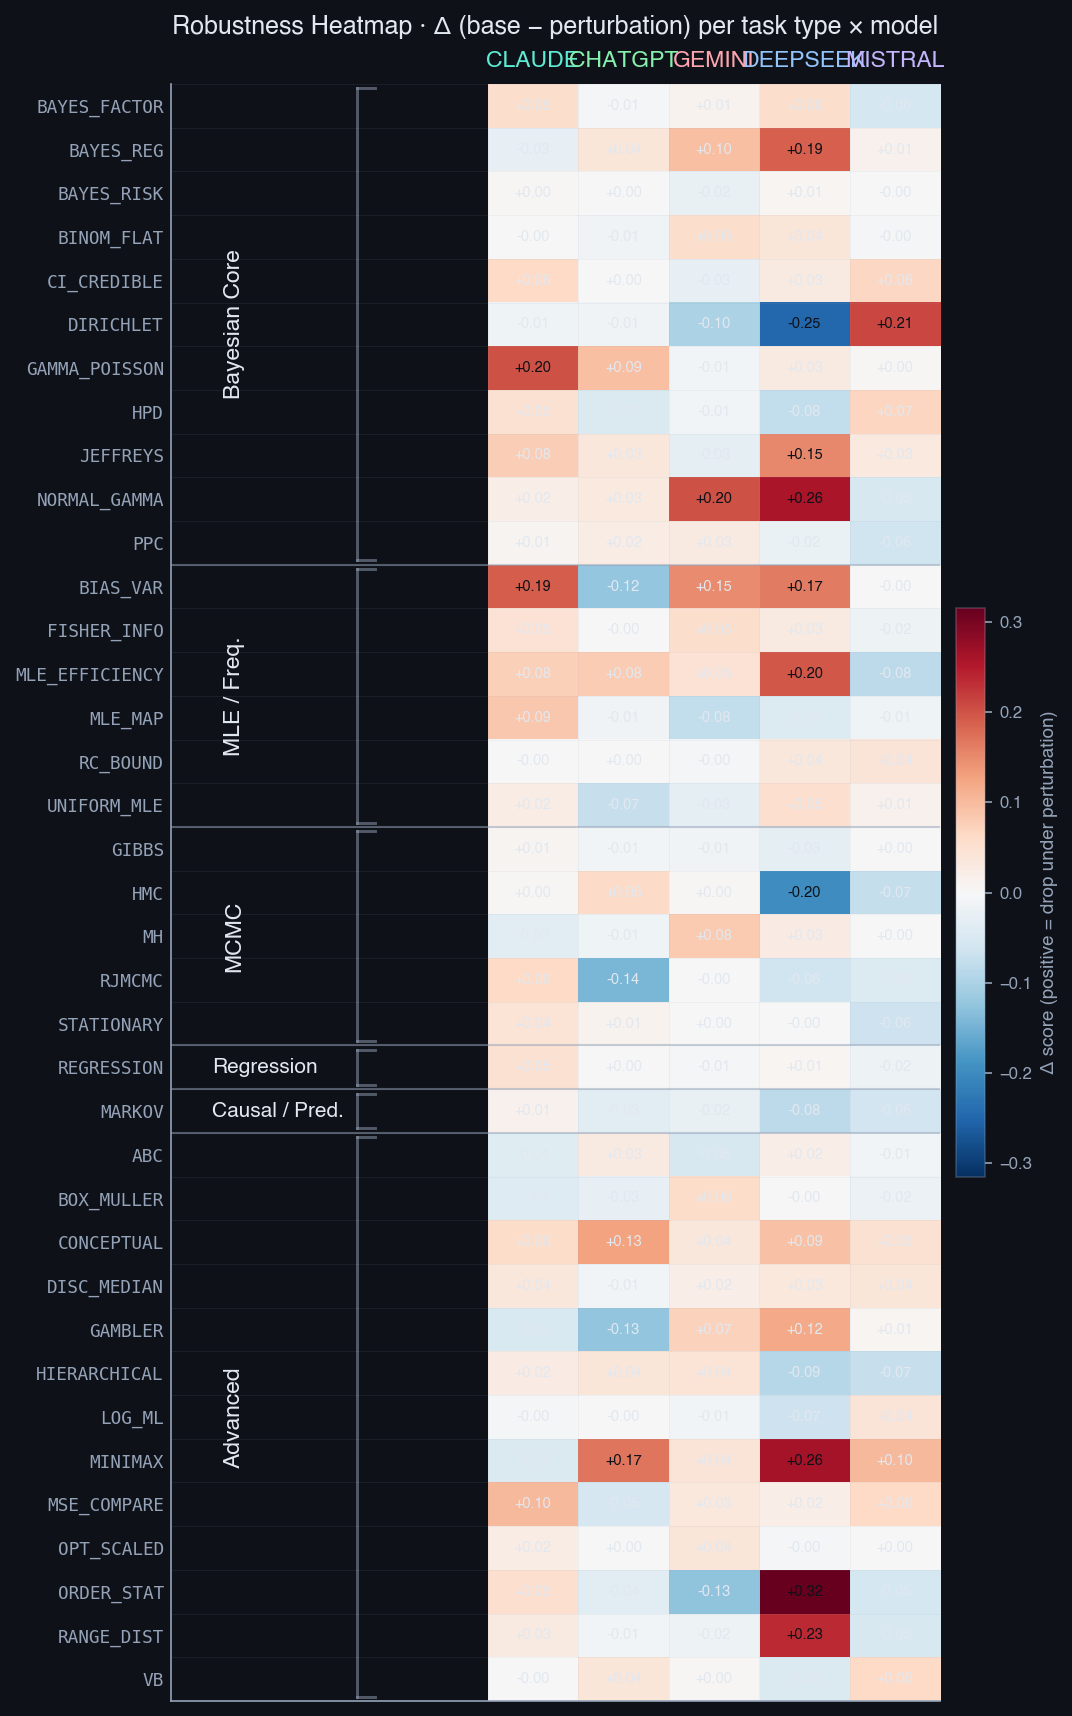
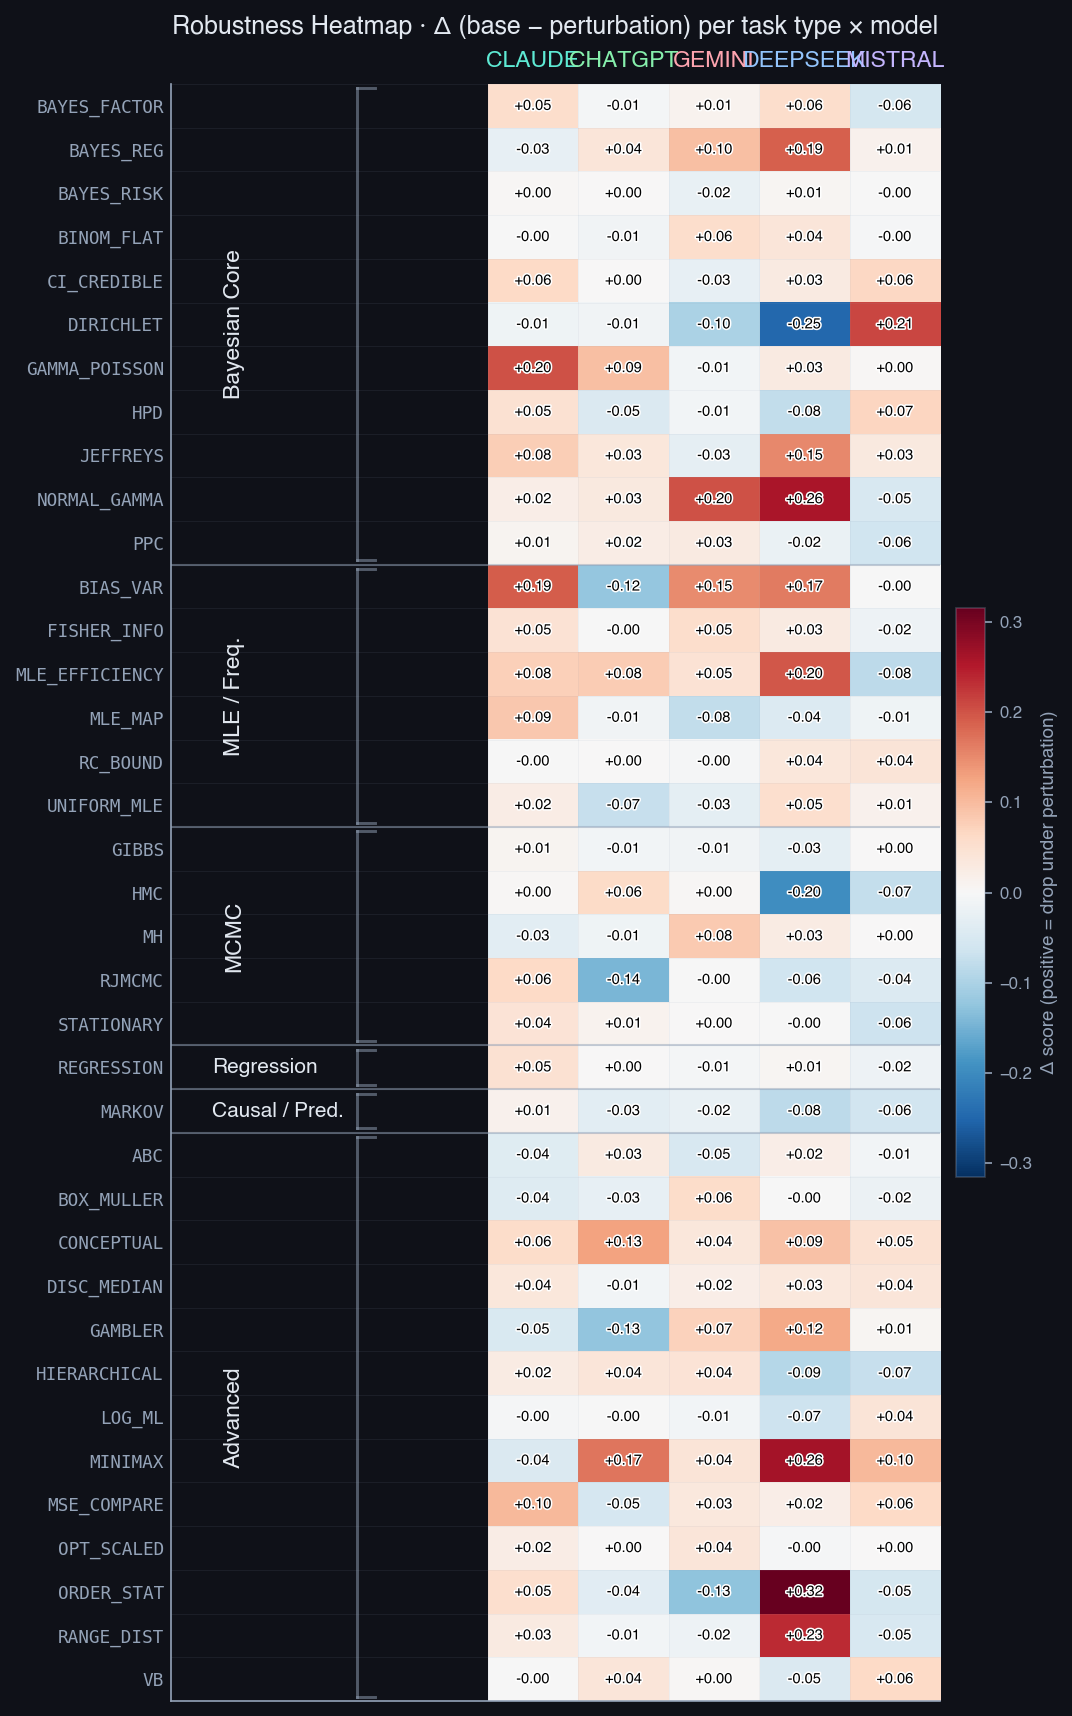
4 chart polish: disagreement spacing, a6 rank→value, robustness black labels, judge scatter→heatmap

diff --git a/scripts/keyword_vs_judge_agreement.py b/scripts/keyword_vs_judge_agreement.py
@@ -15,6 +15,8 @@ from pathlib import Path
 
 import matplotlib
 matplotlib.use("Agg")
+import matplotlib.colors as mcolors
+import matplotlib.patheffects as pe
 import matplotlib.pyplot as plt
 import numpy as np
 from scipy import stats
@@ -42,6 +44,8 @@ OUT_JSON = Path("experiments/results_v2/keyword_vs_judge_agreement.json")
 TOP_JSON = Path("experiments/results_v2/top_disagreements_assumption.json")
 FIG_SCATTER = Path("report_materials/figures/judge_validation_scatter.png")
 FIG_BARS = Path("report_materials/figures/judge_validation_by_model.png")
+WEB_SCATTER = Path("capstone-website/frontend/public/visualizations/png/v2/judge_validation_scatter.png")
+WEB_BARS = Path("capstone-website/frontend/public/visualizations/png/v2/judge_validation_by_model.png")
 
 # (label, keyword field, judge dimension key)
 DIMS = [
@@ -183,47 +187,86 @@ def top_disagreements(joined: list[dict], n: int = 30) -> list[dict]:
 
 
 def make_scatter_figure(joined: list[dict], path: Path) -> None:
+    """4-panel 2D bin heatmap of keyword rubric vs external judge scores.
+
+    5×5 count grid per panel (bins centered at 0, 0.25, 0.5, 0.75, 1.0).
+    Cell color encodes log(count+1) on viridis. Cells annotated with integer
+    counts (white text + black stroke). Diagonal = perfect agreement.
+    """
     path.parent.mkdir(parents=True, exist_ok=True)
-    fig, axes = plt.subplots(1, 4, figsize=(22, 6), facecolor=SITE_BG)
     panels = [
         ("Method / Structure",      "kw_structure",  "judge_method"),
         ("Assumption Compliance",   "kw_assumption", "judge_assumption"),
         ("Reasoning Quality",       "kw_reasoning",  "judge_reasoning"),
-        ("Reasoning Completeness",  None,            "judge_completeness"),
+        ("Reasoning Completeness",  "kw_reasoning",  "judge_completeness"),
     ]
+    bin_centers = np.array([0.0, 0.25, 0.5, 0.75, 1.0])
+    bin_edges = np.array([-0.125, 0.125, 0.375, 0.625, 0.875, 1.125])
+
+    fig, axes = plt.subplots(1, 4, figsize=(15, 4), dpi=150, facecolor=SITE_BG)
+    cmap = plt.get_cmap("viridis")
+    label_stroke = [pe.withStroke(linewidth=1.4, foreground="black")]
+
     for ax, (title, kw_field, jd_field) in zip(axes, panels):
         ax.set_facecolor(SITE_BG)
-        for m, color in MODEL_COLORS.items():
-            xs, ys = [], []
-            for r in joined:
-                jd = r.get(jd_field)
-                if jd is None or r["model_family"] != m:
+        xs, ys = [], []
+        for r in joined:
+            kw = r.get(kw_field)
+            jd = r.get(jd_field)
+            if kw is None or jd is None:
+                continue
+            xs.append(kw)
+            ys.append(jd)
+        xs = np.array(xs)
+        ys = np.array(ys)
+
+        H, _, _ = np.histogram2d(ys, xs, bins=[bin_edges, bin_edges])
+        total = H.sum()
+        diag = np.trace(H) if H.shape[0] == H.shape[1] else 0.0
+        off_pct = (1.0 - diag / total) * 100.0 if total > 0 else 0.0
+
+        log_H = np.log1p(H)
+        norm = mcolors.Normalize(vmin=0.0, vmax=max(log_H.max(), 1e-6))
+        ax.imshow(log_H, cmap=cmap, norm=norm, origin="lower",
+                  aspect="auto",
+                  extent=(-0.5, len(bin_centers) - 0.5,
+                          -0.5, len(bin_centers) - 0.5))
+
+        for i in range(H.shape[0]):
+            for j in range(H.shape[1]):
+                count = int(H[i, j])
+                if count == 0:
                     continue
-                if kw_field is None:
-                    # Distribution-only panel: x = task index, y = judge score
-                    xs.append(np.random.uniform(0, 1))
-                    ys.append(jd)
-                else:
-                    kw = r.get(kw_field)
-                    if kw is None:
-                        continue
-                    xs.append(kw + np.random.uniform(-0.02, 0.02))
-                    ys.append(jd + np.random.uniform(-0.02, 0.02))
-            ax.scatter(xs, ys, s=20, alpha=0.55, c=color, label=m, edgecolors="none")
-        ax.plot([0, 1], [0, 1], color=SITE_FG_MUTED, lw=1.2, ls="--", alpha=0.5)
-        ax.set_xlim(-0.05, 1.05); ax.set_ylim(-0.05, 1.05)
-        ax.set_title(title, fontsize=18, color=SITE_FG, pad=10)
-        ax.set_xlabel("Keyword rubric" if kw_field else "(no keyword equivalent)",
-                      fontsize=14, color=SITE_FG_MUTED)
-        ax.set_ylabel("LLM judge", fontsize=14, color=SITE_FG_MUTED)
-        ax.tick_params(colors=SITE_FG_MUTED, labelsize=11)
+                ax.text(j, i, str(count), ha="center", va="center",
+                        fontsize=9, color="white", fontweight="700",
+                        path_effects=label_stroke)
+
+        ax.plot([-0.5, len(bin_centers) - 0.5],
+                [-0.5, len(bin_centers) - 0.5],
+                color="white", lw=1.0, ls="--", alpha=0.5)
+
+        ax.text(0.03, 0.97,
+                f"off-diagonal: {off_pct:.1f}%",
+                transform=ax.transAxes, ha="left", va="top",
+                fontsize=9, fontweight="700",
+                color="white", path_effects=label_stroke)
+
+        ax.set_xticks(range(len(bin_centers)))
+        ax.set_yticks(range(len(bin_centers)))
+        ax.set_xticklabels([f"{c:.2f}" for c in bin_centers], fontsize=8)
+        ax.set_yticklabels([f"{c:.2f}" for c in bin_centers], fontsize=8)
+        ax.set_title(title, fontsize=12, color=SITE_FG, pad=8, fontweight="700")
+        ax.set_xlabel("Keyword rubric", fontsize=9, color=SITE_FG_MUTED)
+        ax.set_ylabel("LLM judge", fontsize=9, color=SITE_FG_MUTED)
+        ax.tick_params(colors=SITE_FG_MUTED, labelsize=8)
         dim_remaining_spines(ax)
-        ax.grid(True, alpha=0.06, color="#ffffff")
-    axes[0].legend(loc="upper left", fontsize=11, frameon=False, labelcolor=SITE_FG_MUTED)
-    fig.suptitle("Keyword rubric vs external LLM judge — per-dimension scatter",
-                 fontsize=20, color=SITE_FG, y=1.02)
+
+    fig.suptitle("Keyword rubric vs external LLM judge — agreement heatmaps",
+                 fontsize=14, color=SITE_FG, y=1.02, fontweight="700")
     plt.tight_layout()
-    fig.savefig(path, dpi=300, bbox_inches="tight", facecolor=SITE_BG)
+    fig.savefig(path, dpi=150, bbox_inches="tight", facecolor=SITE_BG)
+    WEB_SCATTER.parent.mkdir(parents=True, exist_ok=True)
+    fig.savefig(WEB_SCATTER, dpi=150, bbox_inches="tight", facecolor=SITE_BG)
     plt.close(fig)
 
 

diff --git a/scripts/generate_group_a_figures.py b/scripts/generate_group_a_figures.py
@@ -342,17 +342,13 @@ def figure_a2():
                  fontsize=13, fontweight="700", color=SITE_FG, pad=22, loc="left")
 
     cbar = fig.colorbar(im, ax=ax, fraction=0.025, pad=0.012)
-    cbar.set_label("Mean final_score", fontsize=9, color=SITE_FG_MUTED,
+    cbar.set_label("Accuracy", fontsize=9, color=SITE_FG_MUTED,
                    rotation=270, labelpad=18)
+    cbar.set_ticks([0.2, 0.4, 0.6, 0.8])
     cbar.ax.tick_params(labelsize=8, colors=SITE_FG_MUTED)
     if cbar.outline is not None:
         cbar.outline.set_edgecolor(SITE_FG_MUTED)
         cbar.outline.set_alpha(0.3)
-    # Cohort-mean tick marker on the colorbar.
-    cbar.ax.axhline(overall_mean, color=SITE_FG, lw=1.2, alpha=0.85)
-    cbar.ax.text(1.6, overall_mean, f"  cohort mean · {overall_mean:.3f}",
-                 transform=cbar.ax.get_yaxis_transform(),
-                 va="center", ha="left", fontsize=8, color=SITE_FG_MUTED)
 
     fig.text(0.5, 0.01,
              f"Color centered on cohort mean ({overall_mean:.3f}). "
@@ -816,13 +812,9 @@ def figure_a6():
             elinewidth=2.0, capsize=5, capthick=1.6,
             markersize=12, markeredgecolor=SITE_BG, markeredgewidth=1.0,
         )
-        ax.text(upper[i] + 0.005, y_pos[i], f"{means[i]:.3f}",
-                va="center", ha="left",
+        ax.text(means[i], y_pos[i] - 0.35, f"{means[i]:.3f}",
+                va="bottom", ha="center",
                 color=SITE_FG, fontsize=10, fontweight="700")
-        ax.text(means[i], y_pos[i] - 0.32, f"#{i+1}",
-                va="top", ha="center",
-                color=SITE_FG_MUTED, fontsize=9, fontweight="700",
-                alpha=0.85)
 
     ax.set_yticks(y_pos)
     ax.set_yticklabels([MODEL_LABEL[m] for m in rank_order],

diff --git a/scripts/robustness_analysis.py b/scripts/robustness_analysis.py
@@ -21,6 +21,7 @@ from collections import defaultdict
 from pathlib import Path
 
 import matplotlib.colors as mcolors
+import matplotlib.patheffects as pe
 import matplotlib.pyplot as plt
 import numpy as np
 
@@ -160,18 +161,20 @@ def plot_heatmap(heatmap, task_types, models):
     ax.set_yticklabels(ordered_types, fontsize=8.5, family="monospace",
                        color=SITE_FG_MUTED)
 
-    # Annotate EVERY non-NaN cell. Bright-cell threshold |Δ| > 0.15 →
-    # SITE_BG ink for contrast against saturated colors; dim cells → SITE_FG.
+    # Annotate EVERY non-NaN cell. Black ink + white stroke for contrast on
+    # any background.
+    label_stroke = [pe.withStroke(linewidth=1.5, foreground="white")]
     for i in range(len(ordered_types)):
         for j in range(len(models)):
             v = M[i, j]
             if np.isnan(v):
                 ax.text(j, i, "—", ha="center", va="center",
-                        fontsize=6, color=SITE_FG_MUTED)
+                        fontsize=6, color="black",
+                        path_effects=label_stroke)
                 continue
-            txt_color = SITE_BG if abs(v) > 0.15 else SITE_FG
             ax.text(j, i, f"{v:+.2f}", ha="center", va="center",
-                    fontsize=7, color=txt_color, fontweight="bold")
+                    fontsize=7, color="black", fontweight="bold",
+                    path_effects=label_stroke)
 
     for _, _, end_row in cat_spans[:-1]:
         ax.axhline(end_row + 0.5, color=SITE_FG_MUTED, linewidth=1.0, alpha=0.5)

diff --git a/scripts/disagreement_by_perttype.py b/scripts/disagreement_by_perttype.py
@@ -102,8 +102,8 @@ def main():
 
     fig.suptitle("Disagreement by perturbation type",
                  fontsize=13, fontweight="700", color=SITE_FG,
-                 x=0.02, ha="left", y=0.985)
-    fig.text(0.02, 0.935,
+                 x=0.02, ha="left", y=0.99)
+    fig.text(0.02, 0.91,
              "Pass-flip rate, keyword vs Llama judge",
              ha="left", fontsize=8.5, style="italic", color=SITE_FG_MUTED)
 
